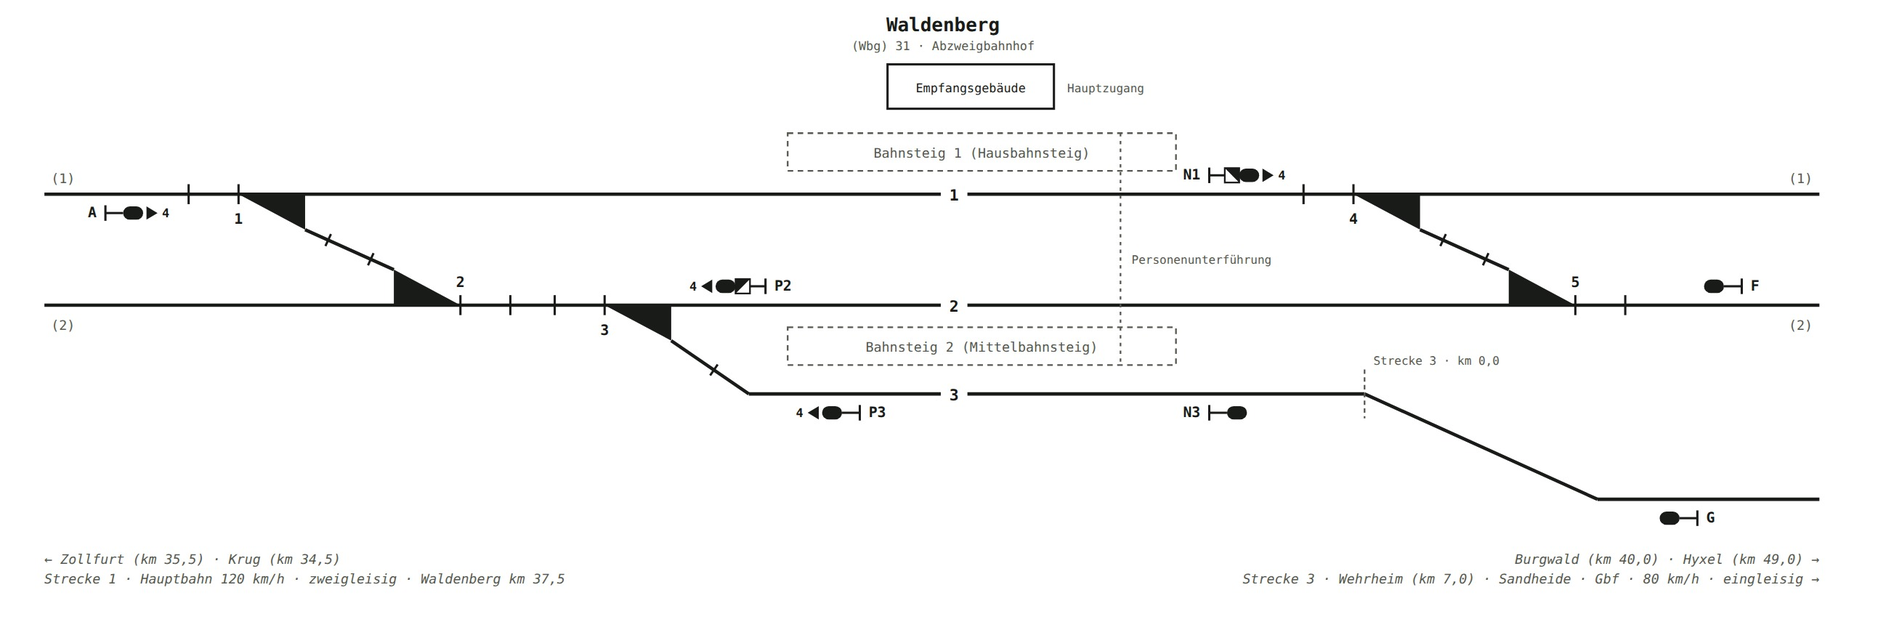
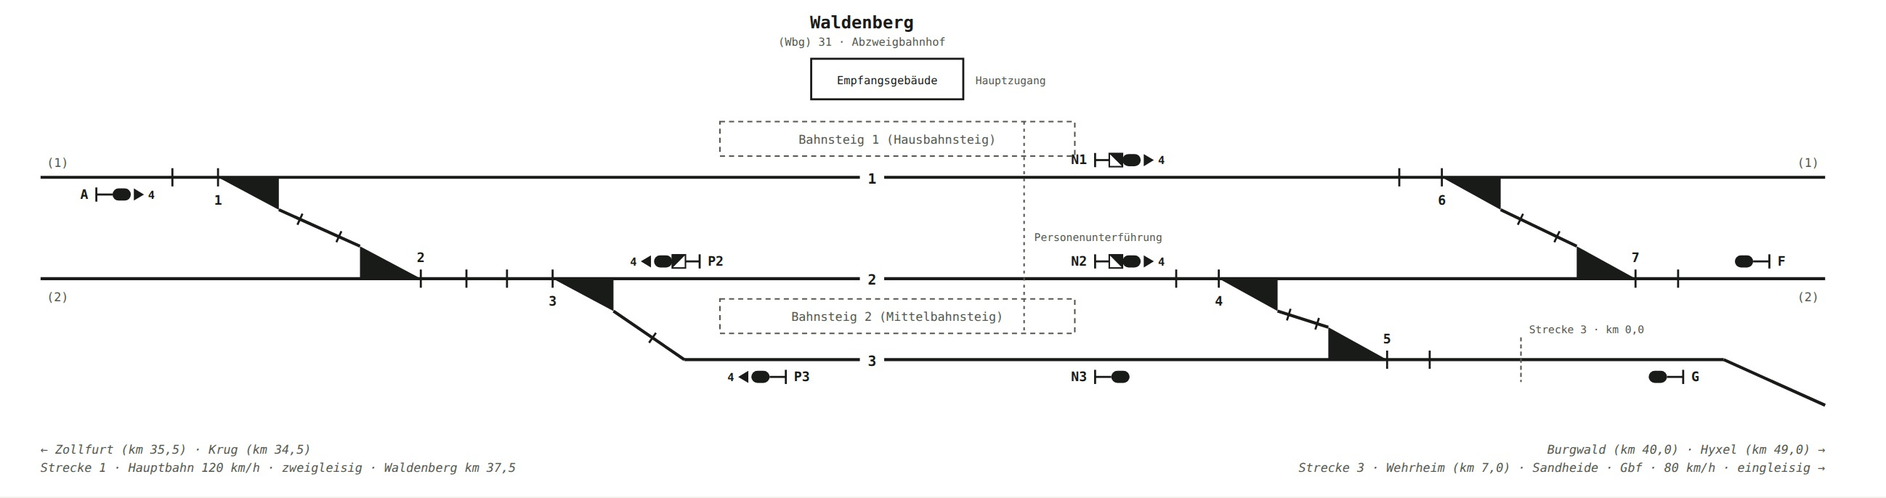
Waldenberg: eigene Nebenbahn-Anbindung aus Gleis 2 am Ostkopf
Der Fahrplan verlangt um 10:34 eine Nebenbahn-Ausfahrt der RB 66,
während die RB 64 von 10:22 bis 10:36 in Gleis 3 wendet. Bisher führte
der einzige Weg zur Nebenbahn durch den belegten Bahnsteigabschnitt von
Gleis 3, die beiden Fahrten schlossen sich also aus.

Gleis 2 bekommt daher über die neuen Weichen 4 und 5 eine eigene
Anbindung an die Nebenbahn, die erst östlich des Bahnsteigs in Gleis 3
einmündet. RB 66 fährt damit aus Gleis 2 aus, während Gleis 3 belegt
bleibt. Der Überleitverbinder Gleis 1 zu Gleis 2 rückt als Weichen 6/7
weiter nach Osten, die Weichennummern steigen weiter mit der
Kilometrierung.

Gleis 2 erhält dafür das bisher fehlende Ausfahrsignal N2 Richtung
Osten, mit Zs 3 für die Abzweigfahrt auf die Nebenbahn und
Gegengleisanzeiger für die Fahrt auf Streckengleis 2.

Claude-Session: https://claude.ai/code/session_01946ufwtxKyfXxUR2Dq2NLD

diff --git a/lageplan-waldenberg.html b/lageplan-waldenberg.html
@@ -38,7 +38,7 @@
   .sub { color: var(--ink-soft); font-size: 15px; max-width: 78ch; margin: 0 0 26px; }
   .panel { background: var(--surface); border: 1px solid var(--line); border-radius: 10px; padding: 20px; margin-bottom: 20px; }
   .diagram-scroll { overflow-x: auto; }
-  svg.plan { width: 100%; height: auto; min-width: 1020px; display: block; }
+  svg.plan { width: 100%; height: auto; min-width: 1200px; display: block; }
   svg.plan text { font-family: "IBM Plex Mono", ui-monospace, monospace; }
   h2 { font-size: 19px; margin: 0 0 4px; }
   h3 { font-size: 13.5px; margin: 0 0 8px; }
@@ -80,7 +80,9 @@
     <strong>Strecke 1</strong> (Krug–Furth) durchläuft die Betriebsstelle bei km 37,5 mit den
     durchgehenden Hauptgleisen 1 und 2. Die eingleisige <strong>Strecke 3</strong> nach
     Wehrheim – Sandheide – Gbf beginnt hier bei <strong>km 0,0</strong>; ihr Bahnsteiggleis ist
-    Gleis 3, das östlich unmittelbar in die Nebenbahn übergeht. Beide Hauptgleise bleiben
+    Gleis 3, das östlich des Bahnsteigs in die Nebenbahn übergeht. Weil Gleis 2 über die
+    Weichen 4 und 5 eine <strong>eigene Anbindung an die Nebenbahn</strong> hat, kann ein Zug
+    aus Gleis 2 auf die Nebenbahn ausfahren, während in Gleis 3 ein anderer wendet. Beide Hauptgleise bleiben
     durchgehend gerade, damit IC 11/13/15, RE 70/71 und die Güterzüge mit 120 km/h ohne
     abzweigend zu befahrende Weiche durchfahren können.
   </p>
@@ -98,11 +100,11 @@
     </p>
 
     <div class="diagram-scroll">
-      <svg class="plan" viewBox="0 0 1700 560" role="img" aria-label="Sicherungstechnischer Lageplan des Abzweigbahnhofs Waldenberg. Die zweigleisige Hauptbahn (Strecke 1, Krug–Furth, km 37,5) läuft mit Gleis 1 und Gleis 2 durchgehend gerade durch die Betriebsstelle. Gleis 3 liegt südlich als Bahnsteiggleis der eingleisigen Nebenbahn und geht östlich unmittelbar in die Strecke 3 nach Wehrheim–Sandheide–Gbf über, deren Kilometrierung hier bei km 0,0 beginnt. Am Westkopf verbinden die Weichen 1 und 2 als Überleitverbinder Gleis 1 und Gleis 2, Weiche 3 führt von Gleis 2 auf Gleis 3. Am Ostkopf liegt mit den Weichen 4 und 5 ein zweiter Überleitverbinder. Bahnsteig 1 ist Hausbahnsteig an Gleis 1 am Empfangsgebäude, Bahnsteig 2 ist Mittelbahnsteig zwischen Gleis 2 und Gleis 3, verbunden über eine Personenunterführung. Einfahrsignale A (von Zollfurt), F (von Burgwald) und G (von Wehrheim), Ausfahrsignale N1, N3, P2 und P3; N1 und P2 mit Gegengleisanzeiger und Zs 3 für die Fahrt über den jeweiligen Überleitverbinder auf das Gegengleis.">
+      <svg class="plan" viewBox="0 0 1860 490" role="img" aria-label="Sicherungstechnischer Lageplan des Abzweigbahnhofs Waldenberg. Die zweigleisige Hauptbahn (Strecke 1, Krug–Furth, km 37,5) läuft mit Gleis 1 und Gleis 2 durchgehend gerade durch die Betriebsstelle. Gleis 3 liegt südlich als Bahnsteiggleis der eingleisigen Nebenbahn und geht östlich unmittelbar in die Strecke 3 nach Wehrheim–Sandheide–Gbf über, deren Kilometrierung hier bei km 0,0 beginnt. Am Westkopf verbinden die Weichen 1 und 2 als Überleitverbinder Gleis 1 und Gleis 2, Weiche 3 führt von Gleis 2 auf Gleis 3. Am Ostkopf binden die Weichen 4 und 5 Gleis 2 östlich des Bahnsteigs an die Nebenbahn an, die Weichen 6 und 7 bilden einen zweiten Überleitverbinder zwischen Gleis 1 und Gleis 2. Bahnsteig 1 ist Hausbahnsteig an Gleis 1 am Empfangsgebäude, Bahnsteig 2 ist Mittelbahnsteig zwischen Gleis 2 und Gleis 3, verbunden über eine Personenunterführung. Einfahrsignale A (von Zollfurt), F (von Burgwald) und G (von Wehrheim), Ausfahrsignale N1, N2, N3, P2 und P3; N1 und P2 mit Gegengleisanzeiger und Zs 3 für die Fahrt über den jeweiligen Überleitverbinder auf das Gegengleis.">
         <text x="850" y="28" text-anchor="middle" font-size="17" font-weight="700" fill="currentColor">Waldenberg</text>
         <text x="850" y="45" text-anchor="middle" font-size="11" fill="var(--ink-soft)">(Wbg) 31 · Abzweigbahnhof</text>
-        <g stroke="currentColor" fill="none" stroke-width="3"><line x1="40" y1="175" x2="1640" y2="175"/><line x1="40" y1="275" x2="1640" y2="275"/></g>
-        <g stroke="currentColor" fill="none" stroke-width="3"><line x1="675" y1="355" x2="1230" y2="355"/><line x1="1230" y1="355" x2="1440" y2="450"/><line x1="1440" y1="450" x2="1640" y2="450"/></g>
+        <g stroke="currentColor" fill="none" stroke-width="3"><line x1="40" y1="175" x2="1800" y2="175"/><line x1="40" y1="275" x2="1800" y2="275"/></g>
+        <g stroke="currentColor" fill="none" stroke-width="3"><line x1="675" y1="355" x2="1700" y2="355"/><line x1="1700" y1="355" x2="1800" y2="400"/></g>
         <line x1="170" y1="166" x2="170" y2="184" stroke="currentColor" stroke-width="2"/>
 <line x1="215" y1="166" x2="215" y2="184" stroke="currentColor" stroke-width="2"/>
 <polygon points="215,175 275,175 275,207" fill="currentColor"/>
@@ -120,17 +122,28 @@
 <text x="545" y="302" text-anchor="middle" font-size="13" font-weight="600" fill="currentColor">3</text>
         <line x1="605" y1="307" x2="675" y2="355" stroke="currentColor" stroke-width="3"/>
         <line x1="640.1" y1="338.3" x2="646.9" y2="328.5" stroke="currentColor" stroke-width="2"/>
-        <line x1="1175" y1="166" x2="1175" y2="184" stroke="currentColor" stroke-width="2"/>
-<line x1="1220" y1="166" x2="1220" y2="184" stroke="currentColor" stroke-width="2"/>
-<polygon points="1220,175 1280,175 1280,207" fill="currentColor"/>
-<text x="1220" y="202" text-anchor="middle" font-size="13" font-weight="600" fill="currentColor">4</text>
-        <line x1="1465" y1="266" x2="1465" y2="284" stroke="currentColor" stroke-width="2"/>
-<line x1="1420" y1="266" x2="1420" y2="284" stroke="currentColor" stroke-width="2"/>
-<polygon points="1420,275 1360,275 1360,243" fill="currentColor"/>
-<text x="1420" y="259" text-anchor="middle" font-size="13" font-weight="600" fill="currentColor">5</text>
-        <line x1="1280" y1="207" x2="1360" y2="243" stroke="currentColor" stroke-width="3"/>
-        <line x1="1298.3" y1="221.8" x2="1303.3" y2="210.9" stroke="currentColor" stroke-width="2"/>
-        <line x1="1336.7" y1="239.1" x2="1341.7" y2="228.2" stroke="currentColor" stroke-width="2"/>
+        <line x1="1160" y1="266" x2="1160" y2="284" stroke="currentColor" stroke-width="2"/>
+<line x1="1202" y1="266" x2="1202" y2="284" stroke="currentColor" stroke-width="2"/>
+<polygon points="1202,275 1260,275 1260,307" fill="currentColor"/>
+<text x="1202" y="302" text-anchor="middle" font-size="13" font-weight="600" fill="currentColor">4</text>
+        <line x1="1410" y1="346" x2="1410" y2="364" stroke="currentColor" stroke-width="2"/>
+<line x1="1368" y1="346" x2="1368" y2="364" stroke="currentColor" stroke-width="2"/>
+<polygon points="1368,355 1310,355 1310,323" fill="currentColor"/>
+<text x="1368" y="339" text-anchor="middle" font-size="13" font-weight="600" fill="currentColor">5</text>
+        <line x1="1260" y1="307" x2="1310" y2="323" stroke="currentColor" stroke-width="3"/>
+        <line x1="1269.2" y1="316.2" x2="1272.8" y2="304.8" stroke="currentColor" stroke-width="2"/>
+        <line x1="1297.2" y1="325.2" x2="1300.8" y2="313.8" stroke="currentColor" stroke-width="2"/>
+        <line x1="1380" y1="166" x2="1380" y2="184" stroke="currentColor" stroke-width="2"/>
+<line x1="1422" y1="166" x2="1422" y2="184" stroke="currentColor" stroke-width="2"/>
+<polygon points="1422,175 1480,175 1480,207" fill="currentColor"/>
+<text x="1422" y="202" text-anchor="middle" font-size="13" font-weight="600" fill="currentColor">6</text>
+        <line x1="1655" y1="266" x2="1655" y2="284" stroke="currentColor" stroke-width="2"/>
+<line x1="1613" y1="266" x2="1613" y2="284" stroke="currentColor" stroke-width="2"/>
+<polygon points="1613,275 1555,275 1555,243" fill="currentColor"/>
+<text x="1613" y="259" text-anchor="middle" font-size="13" font-weight="600" fill="currentColor">7</text>
+        <line x1="1480" y1="207" x2="1555" y2="243" stroke="currentColor" stroke-width="3"/>
+        <line x1="1496.9" y1="221.8" x2="1502.1" y2="211.0" stroke="currentColor" stroke-width="2"/>
+        <line x1="1532.9" y1="239.0" x2="1538.1" y2="228.2" stroke="currentColor" stroke-width="2"/>
         <rect x="800" y="58" width="150" height="40" fill="none" stroke="currentColor" stroke-width="2"/>
         <text x="875" y="83" text-anchor="middle" font-size="11" fill="currentColor">Empfangsgebäude</text>
         <text x="962" y="83" font-size="10.5" fill="var(--ink-soft)">Hauptzugang</text>
@@ -143,7 +156,7 @@
         <rect x="848" y="165" width="24" height="20" fill="var(--surface)"/><text x="860" y="181" text-anchor="middle" font-size="14" font-weight="600" fill="currentColor">1</text>
         <rect x="848" y="265" width="24" height="20" fill="var(--surface)"/><text x="860" y="281" text-anchor="middle" font-size="14" font-weight="600" fill="currentColor">2</text>
         <rect x="848" y="345" width="24" height="20" fill="var(--surface)"/><text x="860" y="361" text-anchor="middle" font-size="14" font-weight="600" fill="currentColor">3</text>
-        <g fill="var(--ink-soft)" font-size="12"><text x="46" y="165">(1)</text><text x="46" y="297">(2)</text><text x="1634" y="165" text-anchor="end">(1)</text><text x="1634" y="297" text-anchor="end">(2)</text></g>
+        <g fill="var(--ink-soft)" font-size="12"><text x="46" y="165">(1)</text><text x="46" y="297">(2)</text><text x="1794" y="165" text-anchor="end">(1)</text><text x="1794" y="297" text-anchor="end">(2)</text></g>
         <g stroke="currentColor" stroke-width="2" fill="none"><line x1="95" y1="185" x2="95" y2="199"/><line x1="95" y1="192" x2="111" y2="192"/></g>
 <rect x="111" y="186" width="18" height="12" rx="6" fill="currentColor"/>
 <polygon points="132,186 142,192 132,198" fill="currentColor"/>
@@ -161,25 +174,32 @@
 <polygon points="738,366 728,372 738,378" fill="currentColor"/>
 <text x="724" y="376" text-anchor="end" font-size="11" font-weight="600" fill="currentColor">4</text>
 <text x="783" y="376" font-size="13" font-weight="600" fill="currentColor">P3</text>
-        <g stroke="currentColor" stroke-width="2" fill="none"><line x1="1090" y1="151" x2="1090" y2="165"/><line x1="1090" y1="158" x2="1104" y2="158"/></g>
-<rect x="1104" y="151.5" width="13" height="13" fill="none" stroke="currentColor" stroke-width="1.5"/>
-<polygon points="1104,151.5 1117,151.5 1117,164.5" fill="currentColor"/>
-<rect x="1117" y="152" width="18" height="12" rx="6" fill="currentColor"/>
-<polygon points="1138,152 1148,158 1138,164" fill="currentColor"/>
-<text x="1152" y="162" font-size="11" font-weight="600" fill="currentColor">4</text>
-<text x="1082" y="162" text-anchor="end" font-size="13" font-weight="600" fill="currentColor">N1</text>
-        <g stroke="currentColor" stroke-width="2" fill="none"><line x1="1090" y1="365" x2="1090" y2="379"/><line x1="1090" y1="372" x2="1106" y2="372"/></g>
-<rect x="1106" y="366" width="18" height="12" rx="6" fill="currentColor"/>
-<text x="1082" y="376" text-anchor="end" font-size="13" font-weight="600" fill="currentColor">N3</text>
-        <g stroke="currentColor" stroke-width="2" fill="none"><line x1="1570" y1="251" x2="1570" y2="265"/><line x1="1570" y1="258" x2="1554" y2="258"/></g>
-<rect x="1536" y="252" width="18" height="12" rx="6" fill="currentColor"/>
-<text x="1578" y="262" font-size="13" font-weight="600" fill="currentColor">F</text>
-        <g stroke="currentColor" stroke-width="2" fill="none"><line x1="1530" y1="460" x2="1530" y2="474"/><line x1="1530" y1="467" x2="1514" y2="467"/></g>
-<rect x="1496" y="461" width="18" height="12" rx="6" fill="currentColor"/>
-<text x="1538" y="471" font-size="13" font-weight="600" fill="currentColor">G</text>
-        <line x1="1230" y1="333" x2="1230" y2="377" stroke="var(--ink-soft)" stroke-width="1.5" stroke-dasharray="4,3"/>
-        <text x="1238" y="329" font-size="10.5" fill="var(--ink-soft)">Strecke 3 · km 0,0</text>
-        <g fill="var(--ink-soft)" font-size="12" font-style="italic"><text x="40" y="508">← Zollfurt (km 35,5) · Krug (km 34,5)</text><text x="40" y="526">Strecke 1 · Hauptbahn 120 km/h · zweigleisig · Waldenberg km 37,5</text><text x="1640" y="508" text-anchor="end">Burgwald (km 40,0) · Hyxel (km 49,0) →</text><text x="1640" y="526" text-anchor="end">Strecke 3 · Wehrheim (km 7,0) · Sandheide · Gbf · 80 km/h · eingleisig →</text></g>
+        <g stroke="currentColor" stroke-width="2" fill="none"><line x1="1080" y1="151" x2="1080" y2="165"/><line x1="1080" y1="158" x2="1094" y2="158"/></g>
+<rect x="1094" y="151.5" width="13" height="13" fill="none" stroke="currentColor" stroke-width="1.5"/>
+<polygon points="1094,151.5 1107,151.5 1107,164.5" fill="currentColor"/>
+<rect x="1107" y="152" width="18" height="12" rx="6" fill="currentColor"/>
+<polygon points="1128,152 1138,158 1128,164" fill="currentColor"/>
+<text x="1142" y="162" font-size="11" font-weight="600" fill="currentColor">4</text>
+<text x="1072" y="162" text-anchor="end" font-size="13" font-weight="600" fill="currentColor">N1</text>
+        <g stroke="currentColor" stroke-width="2" fill="none"><line x1="1080" y1="251" x2="1080" y2="265"/><line x1="1080" y1="258" x2="1094" y2="258"/></g>
+<rect x="1094" y="251.5" width="13" height="13" fill="none" stroke="currentColor" stroke-width="1.5"/>
+<polygon points="1094,251.5 1107,251.5 1107,264.5" fill="currentColor"/>
+<rect x="1107" y="252" width="18" height="12" rx="6" fill="currentColor"/>
+<polygon points="1128,252 1138,258 1128,264" fill="currentColor"/>
+<text x="1142" y="262" font-size="11" font-weight="600" fill="currentColor">4</text>
+<text x="1072" y="262" text-anchor="end" font-size="13" font-weight="600" fill="currentColor">N2</text>
+        <g stroke="currentColor" stroke-width="2" fill="none"><line x1="1080" y1="365" x2="1080" y2="379"/><line x1="1080" y1="372" x2="1096" y2="372"/></g>
+<rect x="1096" y="366" width="18" height="12" rx="6" fill="currentColor"/>
+<text x="1072" y="376" text-anchor="end" font-size="13" font-weight="600" fill="currentColor">N3</text>
+        <g stroke="currentColor" stroke-width="2" fill="none"><line x1="1745" y1="251" x2="1745" y2="265"/><line x1="1745" y1="258" x2="1729" y2="258"/></g>
+<rect x="1711" y="252" width="18" height="12" rx="6" fill="currentColor"/>
+<text x="1753" y="262" font-size="13" font-weight="600" fill="currentColor">F</text>
+        <g stroke="currentColor" stroke-width="2" fill="none"><line x1="1660" y1="365" x2="1660" y2="379"/><line x1="1660" y1="372" x2="1644" y2="372"/></g>
+<rect x="1626" y="366" width="18" height="12" rx="6" fill="currentColor"/>
+<text x="1668" y="376" font-size="13" font-weight="600" fill="currentColor">G</text>
+        <line x1="1500" y1="333" x2="1500" y2="377" stroke="var(--ink-soft)" stroke-width="1.5" stroke-dasharray="4,3"/>
+        <text x="1508" y="329" font-size="10.5" fill="var(--ink-soft)">Strecke 3 · km 0,0</text>
+        <g fill="var(--ink-soft)" font-size="12" font-style="italic"><text x="40" y="448">← Zollfurt (km 35,5) · Krug (km 34,5)</text><text x="40" y="466">Strecke 1 · Hauptbahn 120 km/h · zweigleisig · Waldenberg km 37,5</text><text x="1800" y="448" text-anchor="end">Burgwald (km 40,0) · Hyxel (km 49,0) →</text><text x="1800" y="466" text-anchor="end">Strecke 3 · Wehrheim (km 7,0) · Sandheide · Gbf · 80 km/h · eingleisig →</text></g>
       </svg>
     </div>
 
@@ -189,7 +209,8 @@
       <span>Alle Weichen EW 1:9, Abzweiggeschwindigkeit 40 km/h.</span>
       <span>Hauptgleise 1 und 2 durchgehend gerade, Streckengeschwindigkeit 120 km/h.</span>
       <span>Strecke 3 (Nebenbahn) beginnt in Waldenberg bei km 0,0, eingleisig, 80 km/h.</span>
-      <span>Gegengleisfahrten über die Überleitverbinder sind signalisiert: Gegengleisanzeiger und Zs 3 (4) an P2 und N1.</span>
+      <span>Gegengleisfahrten über die Überleitverbinder sind signalisiert: Gegengleisanzeiger an P2, N1 und N2.</span>
+      <span>Gleis 3 und die Anbindung Gleis 2 → Nebenbahn (Weichen 4/5) sind voneinander unabhängig befahrbar.</span>
     </div>
   </section>
 
@@ -205,8 +226,8 @@
           <tr><td class="mono">IC 11/13/15<br>RE 70/71<br>GZ 2/3/4</td><td>Durchfahrt Hauptbahn ohne Halt, gerade über beide Hauptgleise</td><td class="mono">1 / 2</td></tr>
           <tr><td class="mono">RE 71 · RB 61<br>RB 65</td><td>Halt an der Hauptbahn: Richtung Osten an Bahnsteig 1, Richtung Westen an Bahnsteig 2</td><td class="mono">1 / 2</td></tr>
           <tr><td class="mono">RB 64</td><td><strong>Wendet in Waldenberg.</strong> Einfahrt von Wehrheim über Signal G, Halt an Bahnsteig 2, Ausfahrt über N3 zurück zur Nebenbahn – ohne die Hauptgleise zu berühren</td><td class="mono">3</td></tr>
-          <tr><td class="mono">RB 66</td><td><strong>Übergang Hauptbahn → Nebenbahn.</strong> Einfahrt von Krug über A (Zs 3), Überleitverbinder Weichen 1/2 auf Gleis 2, Weiche 3 auf Gleis 3, Ausfahrt über N3</td><td class="mono">1 → 2 → 3</td></tr>
-          <tr><td class="mono">Üg 1</td><td>Beginnt und endet in Waldenberg, bereitgestellt in Gleis 3</td><td class="mono">3</td></tr>
+          <tr><td class="mono">RB 66</td><td><strong>Übergang Hauptbahn → Nebenbahn.</strong> Einfahrt von Krug über A, Überleitverbinder Weichen 1/2 auf Gleis 2, Halt an Bahnsteig 2, Ausfahrt über N2 (Zs 3) und die Weichen 4/5 auf die Nebenbahn – <strong>Gleis 3 bleibt dabei frei</strong></td><td class="mono">1 → 2</td></tr>
+          <tr><td class="mono">Üg 1</td><td>Beginnt und endet in Waldenberg, bereitgestellt in Gleis 3 (Wende- und Bereitstellungsgleis der Nebenbahn)</td><td class="mono">3</td></tr>
         </tbody>
       </table>
     </div>
@@ -222,9 +243,11 @@
             <tbody>
               <tr><td class="mono">1</td><td class="mono">31W1</td><td>Gleis 1 → Verbindungsgleis (Westkopf, Überleitverbinder)</td></tr>
               <tr><td class="mono">2</td><td class="mono">31W2</td><td>Verbindungsgleis → Gleis 2 (Westkopf, Überleitverbinder)</td></tr>
-              <tr><td class="mono">3</td><td class="mono">31W3</td><td>Gleis 2 → Gleis 3 (Anbindung des Nebenbahngleises)</td></tr>
-              <tr><td class="mono">4</td><td class="mono">31W4</td><td>Gleis 1 → Verbindungsgleis (Ostkopf, Überleitverbinder)</td></tr>
-              <tr><td class="mono">5</td><td class="mono">31W5</td><td>Verbindungsgleis → Gleis 2 (Ostkopf, Überleitverbinder)</td></tr>
+              <tr><td class="mono">3</td><td class="mono">31W3</td><td>Gleis 2 → Gleis 3 (Westanbindung des Nebenbahngleises)</td></tr>
+              <tr><td class="mono">4</td><td class="mono">31W4</td><td>Gleis 2 → Verbindungsgleis zur Nebenbahn (Ostkopf)</td></tr>
+              <tr><td class="mono">5</td><td class="mono">31W5</td><td>Verbindungsgleis → Gleis 3 / Nebenbahn (Ostkopf, östlich des Bahnsteigs)</td></tr>
+              <tr><td class="mono">6</td><td class="mono">31W6</td><td>Gleis 1 → Verbindungsgleis (Ostkopf, Überleitverbinder)</td></tr>
+              <tr><td class="mono">7</td><td class="mono">31W7</td><td>Verbindungsgleis → Gleis 2 (Ostkopf, Überleitverbinder)</td></tr>
             </tbody>
           </table>
         </div>
@@ -238,7 +261,8 @@
               <tr><td class="mono">A</td><td class="mono">31A</td><td>Einfahrsignal Gleis 1, von Zollfurt/Krug · mit <strong>Zs 3 (4)</strong> für die Einfahrt nach Gleis 3 über die Weichen 1/2/3</td></tr>
               <tr><td class="mono">F</td><td class="mono">31F</td><td>Einfahrsignal Gleis 2, von Burgwald/Hyxel</td></tr>
               <tr><td class="mono">G</td><td class="mono">31G</td><td>Einfahrsignal Nebenbahn, von Wehrheim (Strecke 3)</td></tr>
-              <tr><td class="mono">N1</td><td class="mono">31N1</td><td>Ausfahrsignal Gleis 1, Richtung Burgwald/Hyxel · am Ostende von Bahnsteig 1 · mit <strong>Gegengleisanzeiger</strong> und <strong>Zs 3 (4)</strong> für die Fahrt über die Weichen 4/5 auf das Gegengleis</td></tr>
+              <tr><td class="mono">N1</td><td class="mono">31N1</td><td>Ausfahrsignal Gleis 1, Richtung Burgwald/Hyxel · am Ostende von Bahnsteig 1 · mit <strong>Gegengleisanzeiger</strong> und <strong>Zs 3 (4)</strong> für die Fahrt über die Weichen 6/7 auf das Gegengleis</td></tr>
+              <tr><td class="mono">N2</td><td class="mono">31N2</td><td>Ausfahrsignal Gleis 2, Richtung Osten · am Ostende von Bahnsteig 2 · mit <strong>Zs 3 (4)</strong> für die Fahrt über die Weichen 4/5 auf die Nebenbahn und <strong>Gegengleisanzeiger</strong> für die Fahrt auf Streckengleis (2)</td></tr>
               <tr><td class="mono">N3</td><td class="mono">31N3</td><td>Ausfahrsignal Gleis 3, Richtung Wehrheim · am Ostende von Bahnsteig 2</td></tr>
               <tr><td class="mono">P2</td><td class="mono">31P2</td><td>Ausfahrsignal Gleis 2, Richtung Zollfurt/Krug · am Westende von Bahnsteig 2 · mit <strong>Gegengleisanzeiger</strong> und <strong>Zs 3 (4)</strong> für die Fahrt über die Weichen 2/1 auf das Gegengleis</td></tr>
               <tr><td class="mono">P3</td><td class="mono">31P3</td><td>Ausfahrsignal Gleis 3, Richtung Zollfurt/Krug über die Weichen 3/2 · mit <strong>Zs 3 (4)</strong></td></tr>
@@ -251,14 +275,15 @@
 
     <div class="caveat">
       <strong>Signalstandorte:</strong> Die Einfahrsignale A, F und G stehen an der jeweiligen
-      Bahnhofsgrenze vor der ersten Einfahrweiche. Die Ausfahrsignale N1, N3, P2 und P3 stehen
+      Bahnhofsgrenze vor der ersten Einfahrweiche. Die Ausfahrsignale N1, N2, N3, P2 und P3 stehen
       am Ende des jeweiligen Bahnhofsgleises unmittelbar hinter dem Bahnsteig; die Ausfahrstraße
       läuft von dort über alle Bahnhofsweichen. Einen Zs 3 tragen nur die Signale, deren
       Fahrstraße abzweigend über eine Weiche führt: A (Einfahrt nach Gleis 3), P3 (Ausfahrt über
       die Weichen 3/2) sowie P2 und N1 für die Fahrt über den jeweiligen Überleitverbinder.
       P2 und N1 tragen zusätzlich den <strong>Gegengleisanzeiger</strong>, weil der Zug dabei auf
-      das Streckengleis der Gegenrichtung übergeht. Gleis 3 gibt der Nebenbahn zugleich Flankenschutz, weil Weiche 3
-      in Grundstellung von Gleis 2 abgewandt liegt.
+      das Streckengleis der Gegenrichtung übergeht. Die Weichen 4 und 5 sind der Grund, warum das mit drei Gleisen aufgeht: Der Fahrplan
+      verlangt um 10:34 eine Nebenbahn-Ausfahrt der RB 66, während die RB 64 von 10:22 bis 10:36
+      in Gleis 3 wendet. Über Gleis 2 und die Weichen 4/5 sind beide Fahrten unabhängig.
     </div>
   </section>
 

diff --git a/zeichnung-waldenberg.html b/zeichnung-waldenberg.html
@@ -17,11 +17,11 @@
 <text x="42" y="60" font-size="15" font-weight="700" fill="#000" font-family="IBM Plex Mono, monospace">Lageplan Waldenberg</text>
 <text x="1558" y="60" text-anchor="end" font-size="11" fill="#000" font-family="IBM Plex Mono, monospace">Ril 819.9001 / 819.9002</text>
 <line x1="42" y1="70" x2="1558" y2="70" stroke="#000" stroke-width="1"/>
-<g transform="translate(52,255) scale(0.88)" font-family="IBM Plex Mono, monospace">
+<g transform="translate(46,345) scale(0.81)" font-family="IBM Plex Mono, monospace">
         <text x="850" y="28" text-anchor="middle" font-size="17" font-weight="700" fill="#000000">Waldenberg</text>
         <text x="850" y="45" text-anchor="middle" font-size="11" fill="#333333">(Wbg) 31 · Abzweigbahnhof</text>
-        <g stroke="#000000" fill="none" stroke-width="3"><line x1="40" y1="175" x2="1640" y2="175"/><line x1="40" y1="275" x2="1640" y2="275"/></g>
-        <g stroke="#000000" fill="none" stroke-width="3"><line x1="675" y1="355" x2="1230" y2="355"/><line x1="1230" y1="355" x2="1440" y2="450"/><line x1="1440" y1="450" x2="1640" y2="450"/></g>
+        <g stroke="#000000" fill="none" stroke-width="3"><line x1="40" y1="175" x2="1800" y2="175"/><line x1="40" y1="275" x2="1800" y2="275"/></g>
+        <g stroke="#000000" fill="none" stroke-width="3"><line x1="675" y1="355" x2="1700" y2="355"/><line x1="1700" y1="355" x2="1800" y2="400"/></g>
         <line x1="170" y1="166" x2="170" y2="184" stroke="#000000" stroke-width="2"/>
 <line x1="215" y1="166" x2="215" y2="184" stroke="#000000" stroke-width="2"/>
 <polygon points="215,175 275,175 275,207" fill="#000000"/>
@@ -39,17 +39,28 @@
 <text x="545" y="302" text-anchor="middle" font-size="13" font-weight="600" fill="#000000">3</text>
         <line x1="605" y1="307" x2="675" y2="355" stroke="#000000" stroke-width="3"/>
         <line x1="640.1" y1="338.3" x2="646.9" y2="328.5" stroke="#000000" stroke-width="2"/>
-        <line x1="1175" y1="166" x2="1175" y2="184" stroke="#000000" stroke-width="2"/>
-<line x1="1220" y1="166" x2="1220" y2="184" stroke="#000000" stroke-width="2"/>
-<polygon points="1220,175 1280,175 1280,207" fill="#000000"/>
-<text x="1220" y="202" text-anchor="middle" font-size="13" font-weight="600" fill="#000000">4</text>
-        <line x1="1465" y1="266" x2="1465" y2="284" stroke="#000000" stroke-width="2"/>
-<line x1="1420" y1="266" x2="1420" y2="284" stroke="#000000" stroke-width="2"/>
-<polygon points="1420,275 1360,275 1360,243" fill="#000000"/>
-<text x="1420" y="259" text-anchor="middle" font-size="13" font-weight="600" fill="#000000">5</text>
-        <line x1="1280" y1="207" x2="1360" y2="243" stroke="#000000" stroke-width="3"/>
-        <line x1="1298.3" y1="221.8" x2="1303.3" y2="210.9" stroke="#000000" stroke-width="2"/>
-        <line x1="1336.7" y1="239.1" x2="1341.7" y2="228.2" stroke="#000000" stroke-width="2"/>
+        <line x1="1160" y1="266" x2="1160" y2="284" stroke="#000000" stroke-width="2"/>
+<line x1="1202" y1="266" x2="1202" y2="284" stroke="#000000" stroke-width="2"/>
+<polygon points="1202,275 1260,275 1260,307" fill="#000000"/>
+<text x="1202" y="302" text-anchor="middle" font-size="13" font-weight="600" fill="#000000">4</text>
+        <line x1="1410" y1="346" x2="1410" y2="364" stroke="#000000" stroke-width="2"/>
+<line x1="1368" y1="346" x2="1368" y2="364" stroke="#000000" stroke-width="2"/>
+<polygon points="1368,355 1310,355 1310,323" fill="#000000"/>
+<text x="1368" y="339" text-anchor="middle" font-size="13" font-weight="600" fill="#000000">5</text>
+        <line x1="1260" y1="307" x2="1310" y2="323" stroke="#000000" stroke-width="3"/>
+        <line x1="1269.2" y1="316.2" x2="1272.8" y2="304.8" stroke="#000000" stroke-width="2"/>
+        <line x1="1297.2" y1="325.2" x2="1300.8" y2="313.8" stroke="#000000" stroke-width="2"/>
+        <line x1="1380" y1="166" x2="1380" y2="184" stroke="#000000" stroke-width="2"/>
+<line x1="1422" y1="166" x2="1422" y2="184" stroke="#000000" stroke-width="2"/>
+<polygon points="1422,175 1480,175 1480,207" fill="#000000"/>
+<text x="1422" y="202" text-anchor="middle" font-size="13" font-weight="600" fill="#000000">6</text>
+        <line x1="1655" y1="266" x2="1655" y2="284" stroke="#000000" stroke-width="2"/>
+<line x1="1613" y1="266" x2="1613" y2="284" stroke="#000000" stroke-width="2"/>
+<polygon points="1613,275 1555,275 1555,243" fill="#000000"/>
+<text x="1613" y="259" text-anchor="middle" font-size="13" font-weight="600" fill="#000000">7</text>
+        <line x1="1480" y1="207" x2="1555" y2="243" stroke="#000000" stroke-width="3"/>
+        <line x1="1496.9" y1="221.8" x2="1502.1" y2="211.0" stroke="#000000" stroke-width="2"/>
+        <line x1="1532.9" y1="239.0" x2="1538.1" y2="228.2" stroke="#000000" stroke-width="2"/>
         <rect x="800" y="58" width="150" height="40" fill="none" stroke="#000000" stroke-width="2"/>
         <text x="875" y="83" text-anchor="middle" font-size="11" fill="#000000">Empfangsgebäude</text>
         <text x="962" y="83" font-size="10.5" fill="#333333">Hauptzugang</text>
@@ -62,7 +73,7 @@
         <rect x="848" y="165" width="24" height="20" fill="#ffffff"/><text x="860" y="181" text-anchor="middle" font-size="14" font-weight="600" fill="#000000">1</text>
         <rect x="848" y="265" width="24" height="20" fill="#ffffff"/><text x="860" y="281" text-anchor="middle" font-size="14" font-weight="600" fill="#000000">2</text>
         <rect x="848" y="345" width="24" height="20" fill="#ffffff"/><text x="860" y="361" text-anchor="middle" font-size="14" font-weight="600" fill="#000000">3</text>
-        <g fill="#333333" font-size="12"><text x="46" y="165">(1)</text><text x="46" y="297">(2)</text><text x="1634" y="165" text-anchor="end">(1)</text><text x="1634" y="297" text-anchor="end">(2)</text></g>
+        <g fill="#333333" font-size="12"><text x="46" y="165">(1)</text><text x="46" y="297">(2)</text><text x="1794" y="165" text-anchor="end">(1)</text><text x="1794" y="297" text-anchor="end">(2)</text></g>
         <g stroke="#000000" stroke-width="2" fill="none"><line x1="95" y1="185" x2="95" y2="199"/><line x1="95" y1="192" x2="111" y2="192"/></g>
 <rect x="111" y="186" width="18" height="12" rx="6" fill="#000000"/>
 <polygon points="132,186 142,192 132,198" fill="#000000"/>
@@ -80,25 +91,32 @@
 <polygon points="738,366 728,372 738,378" fill="#000000"/>
 <text x="724" y="376" text-anchor="end" font-size="11" font-weight="600" fill="#000000">4</text>
 <text x="783" y="376" font-size="13" font-weight="600" fill="#000000">P3</text>
-        <g stroke="#000000" stroke-width="2" fill="none"><line x1="1090" y1="151" x2="1090" y2="165"/><line x1="1090" y1="158" x2="1104" y2="158"/></g>
-<rect x="1104" y="151.5" width="13" height="13" fill="none" stroke="#000000" stroke-width="1.5"/>
-<polygon points="1104,151.5 1117,151.5 1117,164.5" fill="#000000"/>
-<rect x="1117" y="152" width="18" height="12" rx="6" fill="#000000"/>
-<polygon points="1138,152 1148,158 1138,164" fill="#000000"/>
-<text x="1152" y="162" font-size="11" font-weight="600" fill="#000000">4</text>
-<text x="1082" y="162" text-anchor="end" font-size="13" font-weight="600" fill="#000000">N1</text>
-        <g stroke="#000000" stroke-width="2" fill="none"><line x1="1090" y1="365" x2="1090" y2="379"/><line x1="1090" y1="372" x2="1106" y2="372"/></g>
-<rect x="1106" y="366" width="18" height="12" rx="6" fill="#000000"/>
-<text x="1082" y="376" text-anchor="end" font-size="13" font-weight="600" fill="#000000">N3</text>
-        <g stroke="#000000" stroke-width="2" fill="none"><line x1="1570" y1="251" x2="1570" y2="265"/><line x1="1570" y1="258" x2="1554" y2="258"/></g>
-<rect x="1536" y="252" width="18" height="12" rx="6" fill="#000000"/>
-<text x="1578" y="262" font-size="13" font-weight="600" fill="#000000">F</text>
-        <g stroke="#000000" stroke-width="2" fill="none"><line x1="1530" y1="460" x2="1530" y2="474"/><line x1="1530" y1="467" x2="1514" y2="467"/></g>
-<rect x="1496" y="461" width="18" height="12" rx="6" fill="#000000"/>
-<text x="1538" y="471" font-size="13" font-weight="600" fill="#000000">G</text>
-        <line x1="1230" y1="333" x2="1230" y2="377" stroke="#333333" stroke-width="1.5" stroke-dasharray="4,3"/>
-        <text x="1238" y="329" font-size="10.5" fill="#333333">Strecke 3 · km 0,0</text>
-        <g fill="#333333" font-size="12" font-style="italic"><text x="40" y="508">← Zollfurt (km 35,5) · Krug (km 34,5)</text><text x="40" y="526">Strecke 1 · Hauptbahn 120 km/h · zweigleisig · Waldenberg km 37,5</text><text x="1640" y="508" text-anchor="end">Burgwald (km 40,0) · Hyxel (km 49,0) →</text><text x="1640" y="526" text-anchor="end">Strecke 3 · Wehrheim (km 7,0) · Sandheide · Gbf · 80 km/h · eingleisig →</text></g>
+        <g stroke="#000000" stroke-width="2" fill="none"><line x1="1080" y1="151" x2="1080" y2="165"/><line x1="1080" y1="158" x2="1094" y2="158"/></g>
+<rect x="1094" y="151.5" width="13" height="13" fill="none" stroke="#000000" stroke-width="1.5"/>
+<polygon points="1094,151.5 1107,151.5 1107,164.5" fill="#000000"/>
+<rect x="1107" y="152" width="18" height="12" rx="6" fill="#000000"/>
+<polygon points="1128,152 1138,158 1128,164" fill="#000000"/>
+<text x="1142" y="162" font-size="11" font-weight="600" fill="#000000">4</text>
+<text x="1072" y="162" text-anchor="end" font-size="13" font-weight="600" fill="#000000">N1</text>
+        <g stroke="#000000" stroke-width="2" fill="none"><line x1="1080" y1="251" x2="1080" y2="265"/><line x1="1080" y1="258" x2="1094" y2="258"/></g>
+<rect x="1094" y="251.5" width="13" height="13" fill="none" stroke="#000000" stroke-width="1.5"/>
+<polygon points="1094,251.5 1107,251.5 1107,264.5" fill="#000000"/>
+<rect x="1107" y="252" width="18" height="12" rx="6" fill="#000000"/>
+<polygon points="1128,252 1138,258 1128,264" fill="#000000"/>
+<text x="1142" y="262" font-size="11" font-weight="600" fill="#000000">4</text>
+<text x="1072" y="262" text-anchor="end" font-size="13" font-weight="600" fill="#000000">N2</text>
+        <g stroke="#000000" stroke-width="2" fill="none"><line x1="1080" y1="365" x2="1080" y2="379"/><line x1="1080" y1="372" x2="1096" y2="372"/></g>
+<rect x="1096" y="366" width="18" height="12" rx="6" fill="#000000"/>
+<text x="1072" y="376" text-anchor="end" font-size="13" font-weight="600" fill="#000000">N3</text>
+        <g stroke="#000000" stroke-width="2" fill="none"><line x1="1745" y1="251" x2="1745" y2="265"/><line x1="1745" y1="258" x2="1729" y2="258"/></g>
+<rect x="1711" y="252" width="18" height="12" rx="6" fill="#000000"/>
+<text x="1753" y="262" font-size="13" font-weight="600" fill="#000000">F</text>
+        <g stroke="#000000" stroke-width="2" fill="none"><line x1="1660" y1="365" x2="1660" y2="379"/><line x1="1660" y1="372" x2="1644" y2="372"/></g>
+<rect x="1626" y="366" width="18" height="12" rx="6" fill="#000000"/>
+<text x="1668" y="376" font-size="13" font-weight="600" fill="#000000">G</text>
+        <line x1="1500" y1="333" x2="1500" y2="377" stroke="#333333" stroke-width="1.5" stroke-dasharray="4,3"/>
+        <text x="1508" y="329" font-size="10.5" fill="#333333">Strecke 3 · km 0,0</text>
+        <g fill="#333333" font-size="12" font-style="italic"><text x="40" y="448">← Zollfurt (km 35,5) · Krug (km 34,5)</text><text x="40" y="466">Strecke 1 · Hauptbahn 120 km/h · zweigleisig · Waldenberg km 37,5</text><text x="1800" y="448" text-anchor="end">Burgwald (km 40,0) · Hyxel (km 49,0) →</text><text x="1800" y="466" text-anchor="end">Strecke 3 · Wehrheim (km 7,0) · Sandheide · Gbf · 80 km/h · eingleisig →</text></g>
 </g>
 <g font-family="IBM Plex Mono, monospace">
 <rect x="60" y="900" width="940" height="176" fill="none" stroke="#000" stroke-width="1.5"/>
@@ -120,7 +138,7 @@
 <g transform="translate(853.333,972)"><line x1="0" y1="8" x2="26" y2="8" stroke="#000" stroke-width="1.5" stroke-dasharray="3,3"/><text x="13" y="26" text-anchor="middle" font-size="9" fill="#000">km 0,0</text></g>
 <text x="915" y="992" font-size="9.5" fill="#000">Streckengrenze</text>
 </g>
-<text x="68" y="1094" font-size="10" fill="#000" font-family="IBM Plex Mono, monospace">Alle Weichen EW 1:9, 40 km/h · Gegengleisfahrten über die Überleitverbinder signalisiert (Gegengleisanzeiger + Zs 3 an P2 und N1)</text>
+<text x="68" y="1094" font-size="10" fill="#000" font-family="IBM Plex Mono, monospace">Alle Weichen EW 1:9, 40 km/h · Gegengleisfahrten über die Überleitverbinder signalisiert (Gegengleisanzeiger an P2, N1 und N2)</text>
 <g font-family="IBM Plex Mono, monospace">
 <rect x="1050" y="900" width="490" height="176" fill="none" stroke="#000" stroke-width="2"/>
 <line x1="1050" y1="944" x2="1540" y2="944" stroke="#000" stroke-width="1"/>
